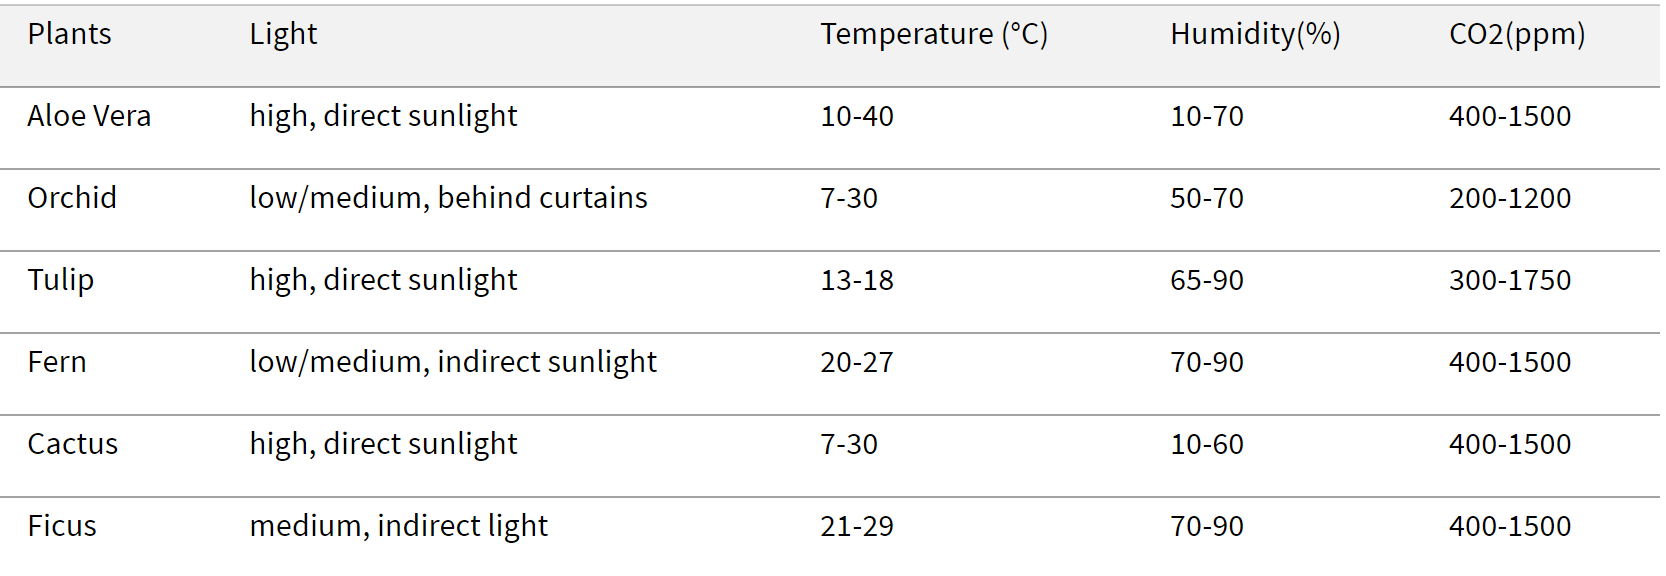
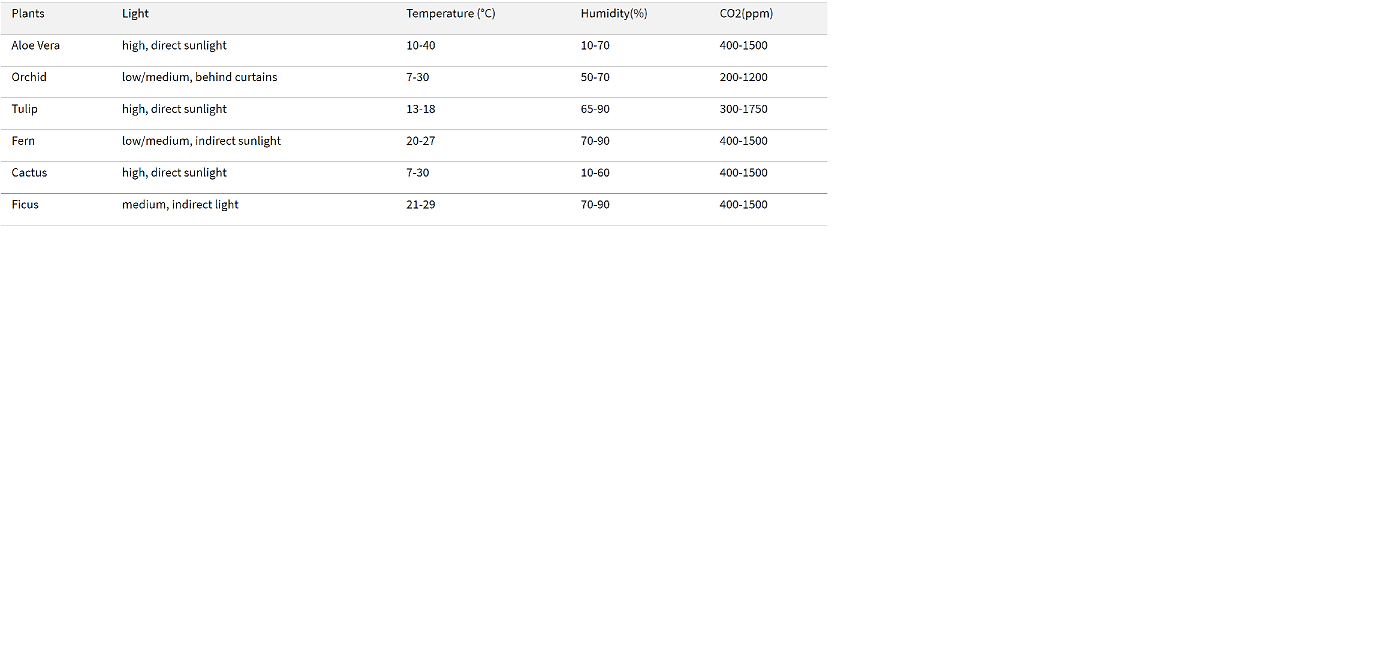
added scroll file and udpates

diff --git a/index_reformat_scroll.html b/index_reformat_scroll.html
@@ -6,10 +6,21 @@
 -->
 <html>
 	<head>
+        
+        <style> 
+        
+            .tableWrapper {
+                
+                oveflow-x: scroll;}
+            
+        
+        </style>
+        
 		<title>iPlantHome</title>
 		<meta charset="utf-8" />
 		<meta name="viewport" content="width=device-width, initial-scale=1" />
 		<link rel="stylesheet" href="assets/css/main.css" />
+        
 	</head>
 	<a href="https://www.freecounterstat.com" title="page hits counter"><img src="https://counter6.freecounter.ovh/private/freecounterstat.php?c=acmgwlfs4clgs41r4mykxe7s96qqzwuu" border="0" title="page hits counter" alt="page hits counter"></a>
 	
@@ -146,6 +157,8 @@
 							
 							<h2>Your Ideal Garden Range</h2>
                             
+                            
+                            <div style="overflow-x: scroll">
 							<TABLE Align="center" Border="2" Width="600" Class = "TableFont">
 
 							<tr>
@@ -206,8 +219,8 @@
 							<tr>
 							
                            
-							</TABLE>
-                            </font>
+                            </TABLE>
+                            </div>
 							</div>
 
 

diff --git a/index_reformatted_image.html b/index_reformatted_image.html
@@ -1,4 +1,5 @@
 <!DOCTYPE HTML>
+<!--- UGLY --->
 <!--
 	Story by HTML5 UP
 	html5up.net | @ajlkn
@@ -109,6 +110,11 @@
 						</div>
 						<div class="image">
 							<img src="images/plant5.jpg" alt="" />
+							img {
+							max-width: 100%;
+							height: auto;
+							}
+}
 						</div>
 					</section>
 					
@@ -145,7 +151,17 @@
 							
 							
 							<h2>Your Ideal Garden Range</h2>
-
+							
+							<div class="image" Align = center>
+							<img src="images/IGtable.PNG" alt="" />
+                                img {
+                                    max-width: 100%;
+                                    height: auto;
+                                    }
+						</div>
+							
+							
+<!---
 							<TABLE Align="center" Border="2" Width="600">
 							
 							
@@ -209,7 +225,7 @@
 							
 							</TABLE>
 							</div>
-
+--->
 
 				<!-- Seven -->
 					<section class="wrapper style1 align-center">
